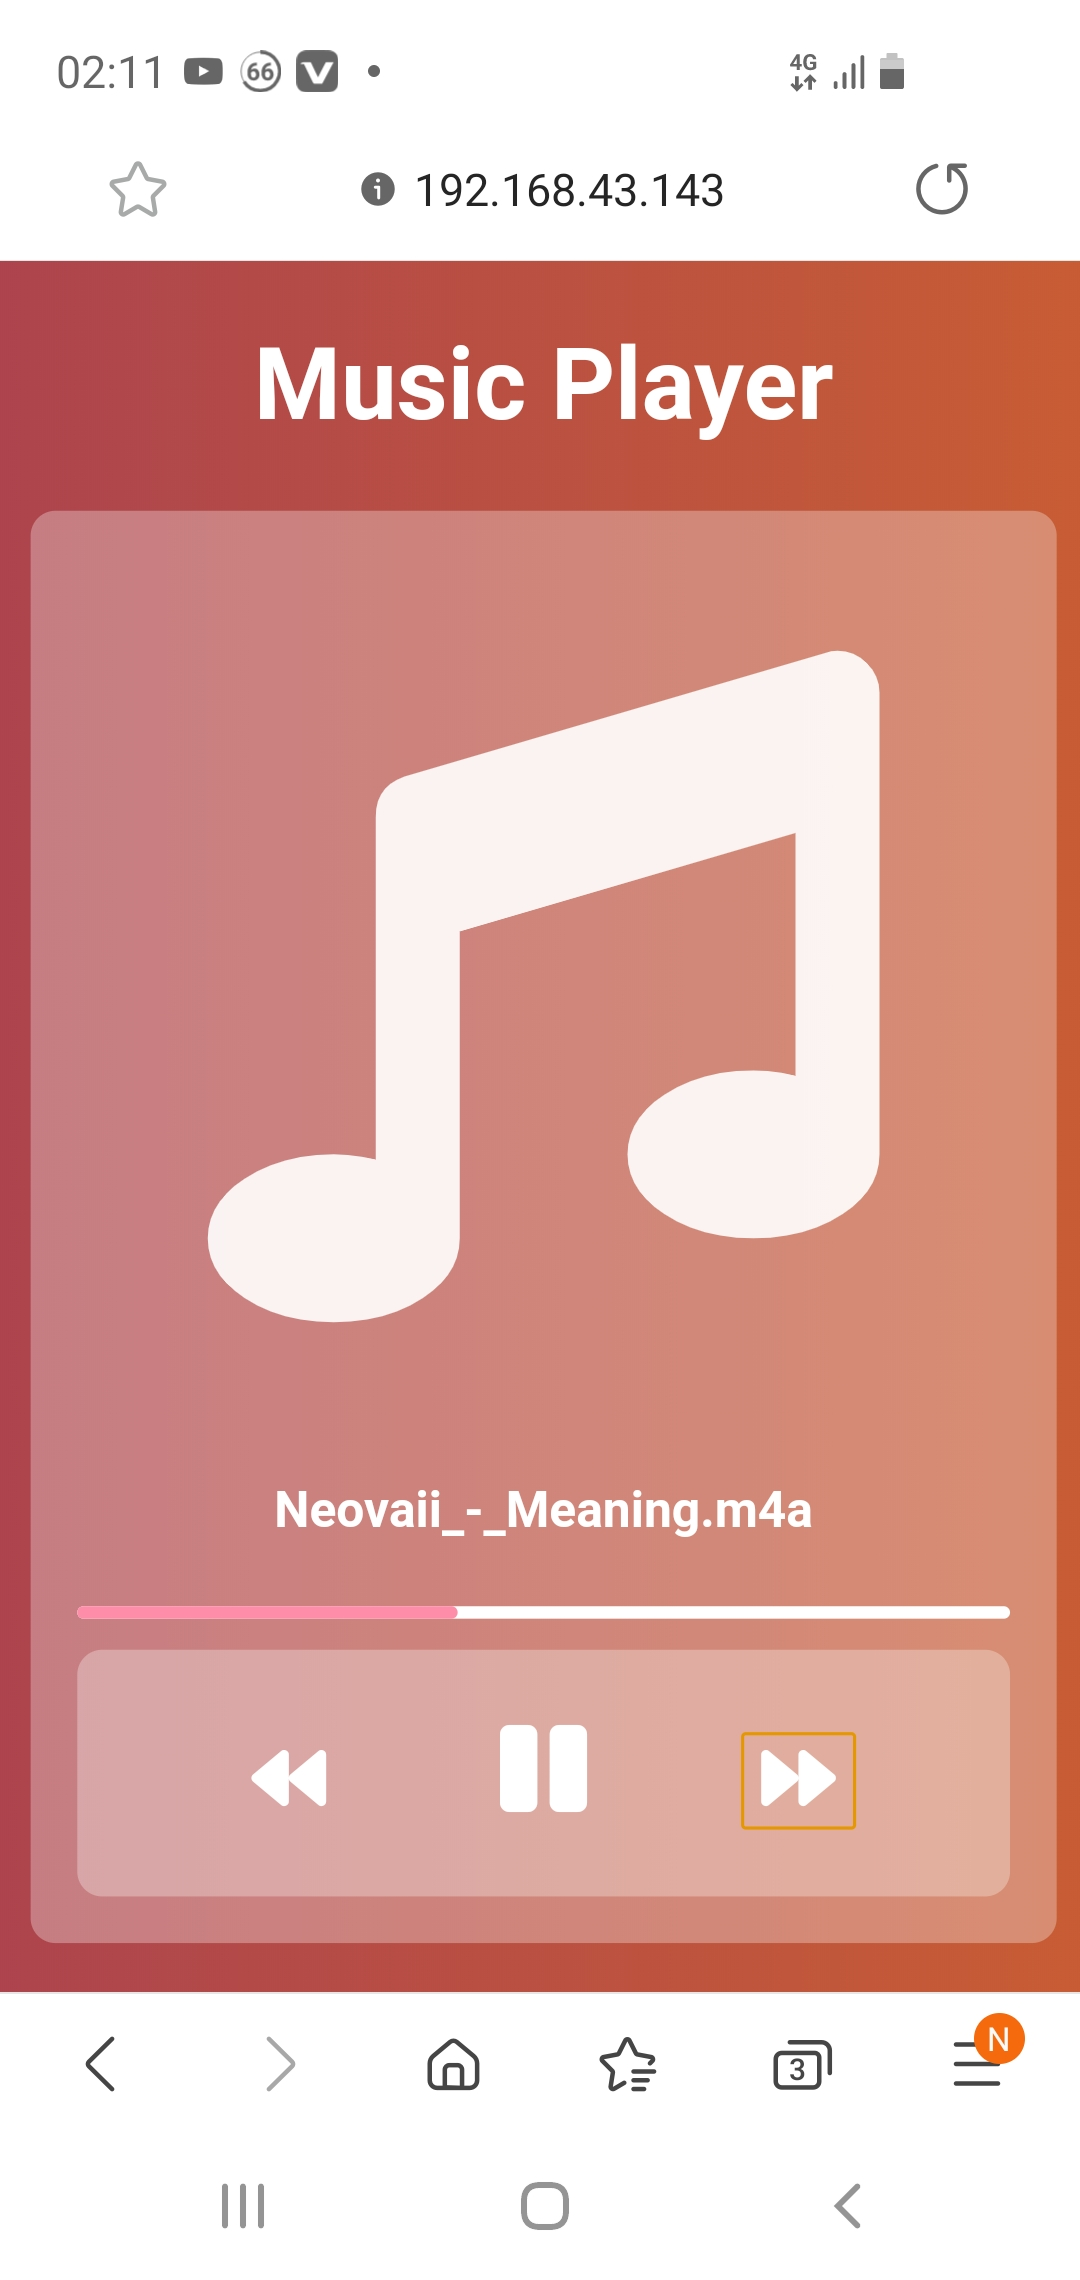
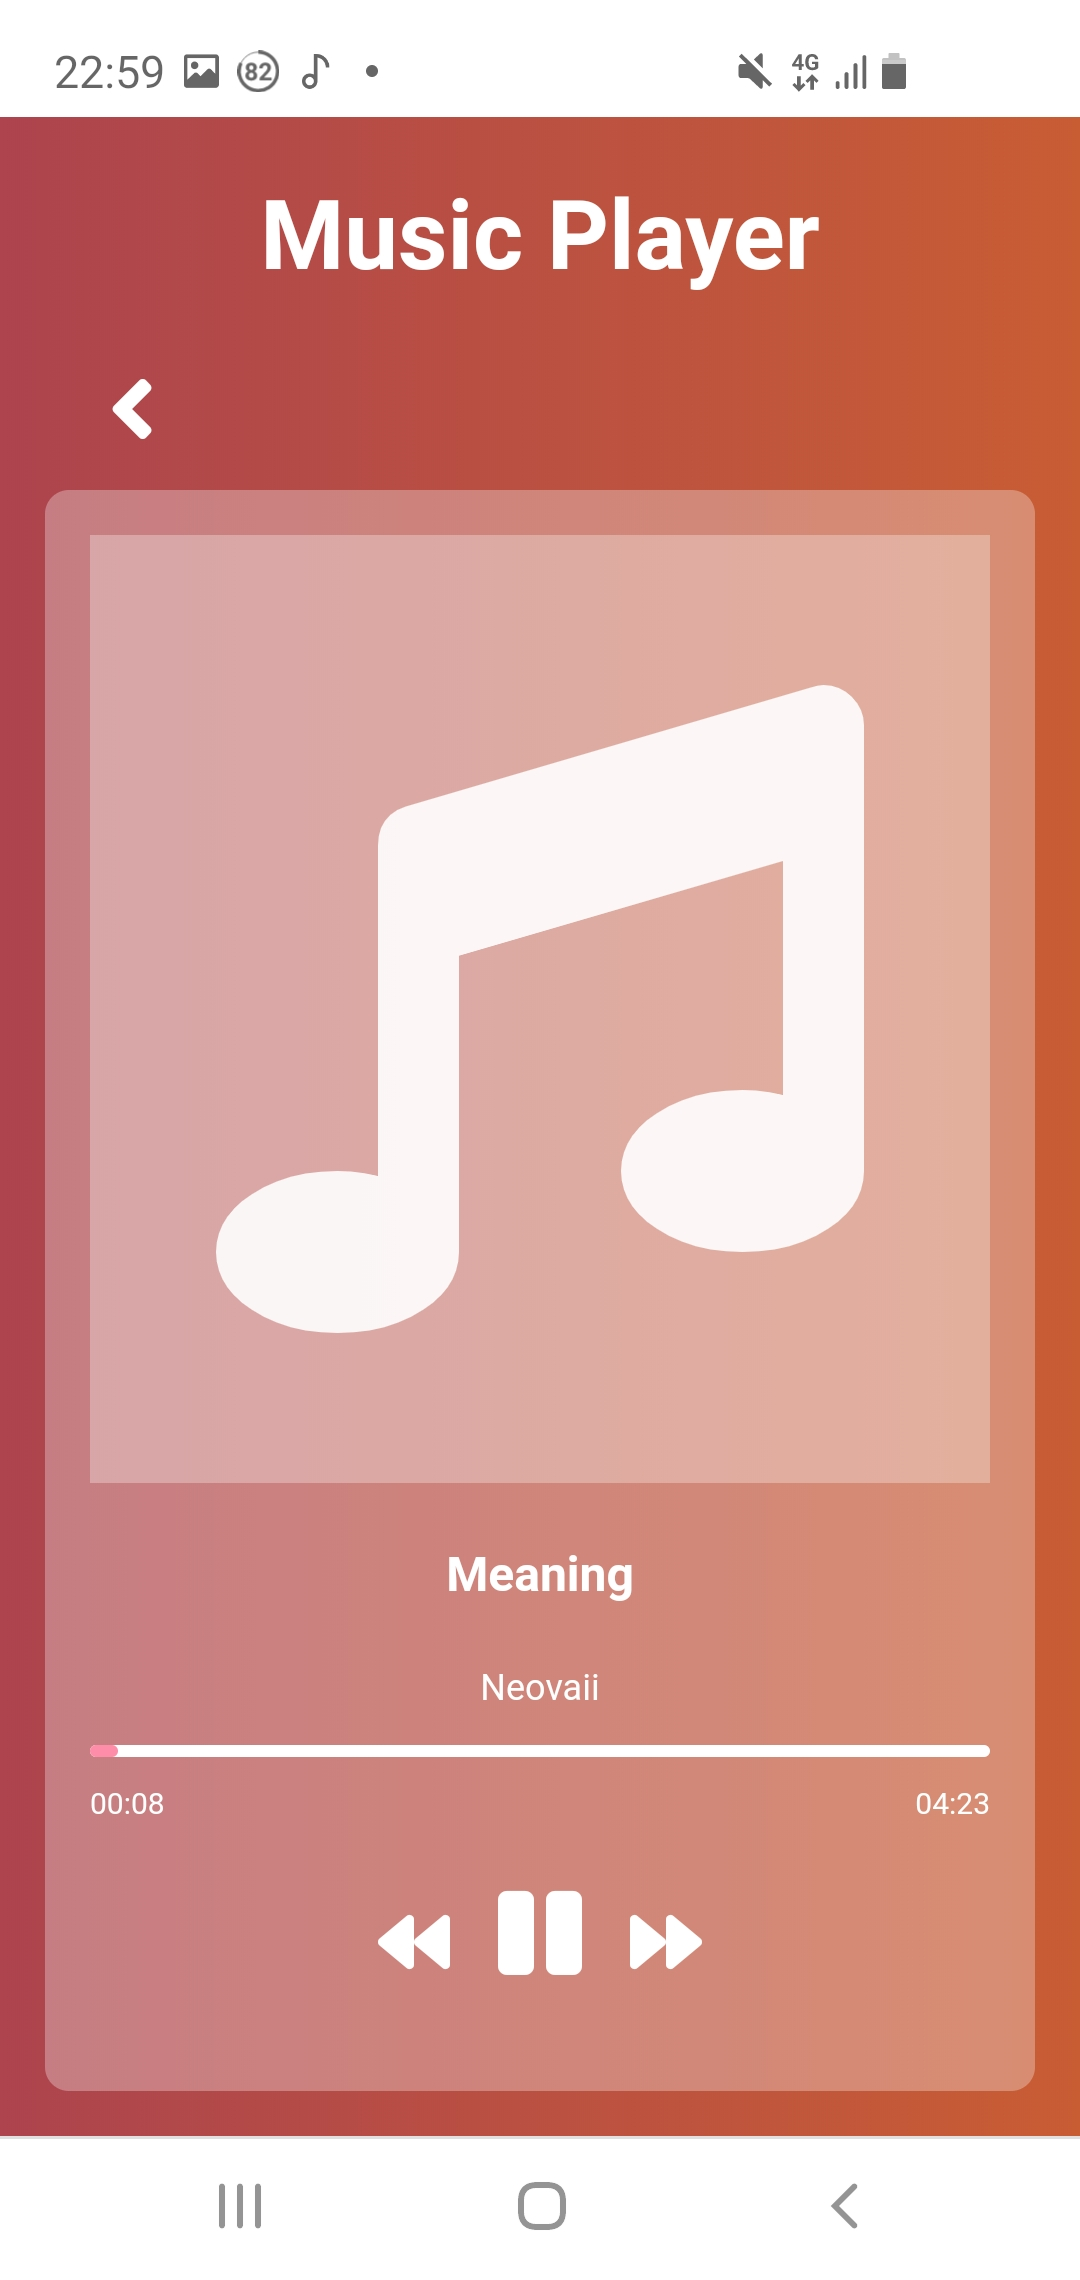
Added time display to music player, and a few UI and UX changes

diff --git a/flaskmusic/templates/home.html b/flaskmusic/templates/home.html
@@ -33,7 +33,7 @@
 
         <div style="margin-top: 100px;">
 
-            <button class="toggleplayer" style="background: pink">Player</button>
+            <button class="toggleplayer" style="display: none;"></button>
 
 
             {% for song in songs %}
@@ -54,11 +54,11 @@
                     {% else %}
                         <span>{{ song.filename[0:20] }}{% if song.filename|length >= 20 %}...{% endif %}</span>
                     {% endif %}
-
+                    <br>
                     {% if song.artist is not none %}
-                        <p style="font-size: 12px;">{{ song.artist }}</p>
+                        <span style="font-size: 12px;">{{ song.artist }}</span>
                     {% else %}
-                        <p style="font-size: 12px;">Unknown Artist</p>
+                        <span style="font-size: 12px;">Unknown Artist</span>
                     {% endif %}
 
                 </div>
@@ -81,8 +81,7 @@
 
             <h1>Music Player</h1>
 
-
-            <button class="togglehome" style="background: pink">Home</button>
+            <div style="text-align: left; width: 300px; margin: 10px auto;"><button class="togglehome"><i class="fas fa-angle-left" style="font-size: 32px;"></i></button></div>
 
 
             <div class="music-container2" id="music-container2">
@@ -97,6 +96,11 @@
                 <div class="progress-container" id="progress-container">
                   <div class="progress" id="progress"></div>
                 </div>
+                <div style="display: flex; justify-content: space-between;">
+                    <span class="current" style="font-size: 10px;"></span>
+                    <span class="duration" style="font-size: 10px;"></span>
+                </div>
+
               </div>
 
               <div class="navigation2">

diff --git a/flaskmusic/static/script.js b/flaskmusic/static/script.js
@@ -9,6 +9,8 @@ const progressContainer = document.getElementById('progress-container');
 const title = document.getElementById('title');
 const artist = document.getElementById('artist')
 const cover = document.getElementById('cover');
+const currentTimeDiv = document.querySelector('.current')
+const durationDiv = document.querySelector('.duration')
 
 // Keep track of song
 var songIndex = 0
@@ -53,10 +55,18 @@ function playSong() {
 
   audio.play();
 
-    playBtns.forEach(btn => {
 
-    console.log(`${btn.parentElement.id}`)
-    console.log(audio.id)
+  const musicinfodivs = document.querySelectorAll('div.music-info')
+  musicinfodivs.forEach(mid => {
+    if (mid.id == audio.id) {
+      mid.style.color = '#ad444e' //'#c85d34'
+    } else {
+      mid.style.color = 'white'
+    }
+  })
+
+
+    playBtns.forEach(btn => {
 
     if (`${btn.parentElement.id}` == audio.id) {
 
@@ -124,6 +134,15 @@ function nextSong() {
 // Update progress bar
 function updateProgress(e) {
   const { duration, currentTime } = e.srcElement;
+
+  var minutes = Math.floor(currentTime / 60)
+  var seconds = Math.floor(currentTime % 60)
+  currentTimeDiv.innerHTML = `${('0' + minutes).slice(-2)}:${('0' + seconds).slice(-2)}`
+
+  var minutes2 = Math.floor(duration / 60)
+  var seconds2 = Math.floor(duration % 60)
+  durationDiv.innerHTML = `${('0' + minutes2).slice(-2)}:${('0' + seconds2).slice(-2)}`
+
   const progressPercent = (currentTime / duration) * 100;
   progress.style.width = `${progressPercent}%`;
 }

diff --git a/flaskmusic/static/togleplayerorlist.js b/flaskmusic/static/togleplayerorlist.js
@@ -14,14 +14,17 @@ buttonhome.addEventListener('click', function () {
 })
 
 const musicinfo = document.querySelectorAll('div.music-info')
-const imgcontainer = document.querySelectorAll('div.music-info')
+const imgcontainer = document.querySelectorAll('div.img-container')
 
 musicinfo.forEach(mc => {
     mc.addEventListener('click', function() {
         list.style.display = 'none'
         player.style.display = 'block'
-        loadSong(mc.id)
-        playSong()
+        if (audio.id != mc.id) {
+            loadSong(mc.id)
+            playSong()
+        }
+
     })
 })
 
@@ -29,7 +32,9 @@ imgcontainer.forEach(mc => {
     mc.addEventListener('click', function() {
         list.style.display = 'none'
         player.style.display = 'block'
-        longSong(mc.id)
-        playSong()
+        if (audio.id != mc.id) {
+            loadSong(mc.id)
+            playSong()
+        }
     })
 })

diff --git a/flaskmusic/static/home.css b/flaskmusic/static/home.css
@@ -10,7 +10,7 @@ body {
 
 .music-container {
     background: rgba(255, 255, 255, 0.5);
-    padding: 20px;
+    padding: 15px;
     margin-top: 10px;
     max-width: 400px;
     display: flex;
@@ -19,6 +19,7 @@ body {
     margin-right: auto;
     justify-content: space-between;
     align-content: center;
+    align-items: center;
     cursor: pointer;
 }
 
@@ -47,7 +48,6 @@ i {
 }
 
 .music-info {
-    position: relative;
     width: 60%;
 }
 

diff --git a/flaskmusic/utils.py b/flaskmusic/utils.py
@@ -1,11 +1,40 @@
+import requests
+from musixmatch import Musixmatch
 from tinytag import TinyTag
 import os
+
+
+def return_secret():
+    with open('secret.scrt', 'r') as f:
+        musixmatch_api_key = f.read().strip()
+        return musixmatch_api_key
 
 
 def get_meta(folder, file):
     song = os.path.join(folder, file)
     tag = TinyTag.get(song)
     return {'album': tag.album, 'artist': tag.artist, 'title': tag.title, 'filename': file}
+
+
+def get_lyrics():
+    artist = input('Type the artist: ')
+    title = input('Type the title: ')
+    r = requests.get(f'https://api.lyrics.ovh/v1/{artist}/{title}')
+    return r.json()
+
+
+def get_lyrics_musixmatch(api_key=return_secret(), q_artist='', q_track='meaning'):
+    musixmatch = Musixmatch(api_key)
+    result = musixmatch.track_search(q_artist=q_artist, q_track=q_track,
+                                     page_size=10, page=1, s_track_rating='desc')
+
+    track_id = result['message']['body']['track_list'][0]['track']['track_id']
+
+    lyrics = musixmatch.track_lyrics_get(
+        track_id)['message']['body']['lyrics']['lyrics_body']
+
+    return lyrics
+
 
 # import os
 # from io import BytesIO
